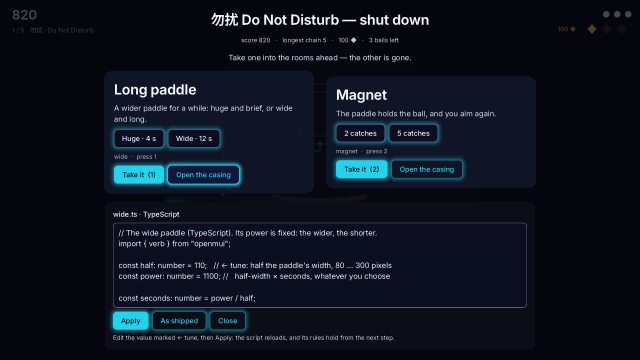
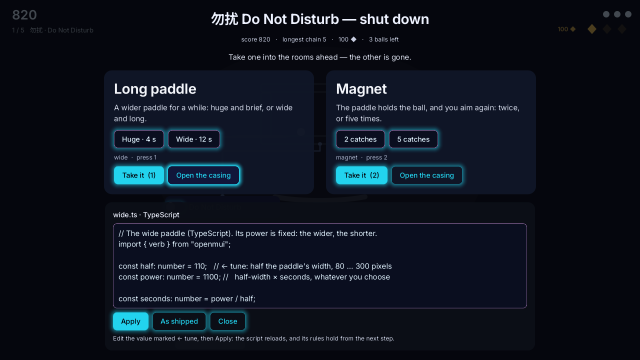
Breakout's choice between rooms reads level and plain: the two cards' presets on one line whatever their words, the preset in effect filled, each contraption's line saying what its two presets trade.

diff --git a/showcase/widget-breakout/src/app.cpp b/showcase/widget-breakout/src/app.cpp
@@ -33,6 +33,8 @@ struct Bench {
     std::array<Signal<std::string>, 2> name{signal(std::string()), signal(std::string())}, line{signal(std::string()), signal(std::string())},
         brief{signal(std::string()), signal(std::string())}, steady{signal(std::string()), signal(std::string())},
         state{signal(std::string()), signal(std::string())};
+    // Which preset each card's contraption is tuned to now (its script's marked value): -1, neither.
+    std::array<Signal<std::int32_t>, 2> chosen{signal(std::int32_t{-1}), signal(std::int32_t{-1})};
     Signal<std::string>               heading = signal(std::string()), stats = signal(std::string()), casing_title = signal(std::string()),
                                       casing_status = signal(std::string());
 
@@ -106,6 +108,7 @@ struct Bench {
         if (!c || !workshop) return;
         const std::size_t i = script_of(c->gift);
         text[i].set(Workshop::retune(text[i].peek(), c->presets[which]));
+        chosen[card].set(static_cast<std::int32_t>(which));
         state[card].set(std::format("tuning: {}", c->preset_names[which]));
         apply(i, [this, card, c, which](const std::string& s) {
             state[card].set(s.starts_with("reloaded") ? std::format("set: {}", c->preset_names[which]) : s);
@@ -142,6 +145,12 @@ struct Bench {
             brief[k].set(c ? std::string(c->preset_names[0]) : std::string());
             steady[k].set(c ? std::string(c->preset_names[1]) : std::string());
             state[k].set(c ? std::format("{}  ·  press {}", c->script, k + 1) : std::string());
+            std::int32_t now = -1;
+            if (c && workshop)
+                if (const auto v = Workshop::tuned(text[script_of(c->gift)].peek()))
+                    for (std::int32_t w = 0; w < 2; ++w)
+                        if (*v == c->presets[static_cast<std::size_t>(w)]) now = w;
+            chosen[k].set(now);
         }
         const Run& r = f->run_so_far();
         heading.set(std::format("{} {} — shut down", room(after).name, room(after).title));
@@ -157,10 +166,16 @@ Element card_view(const std::shared_ptr<Bench>& b, std::size_t k) {
     return column({.id = id, .width = Dim(420.0f), .padding = 20, .gap = 10.0f, .background = Color::hex(0x101626, 0.96f), .radius = 16.0f},
                   // Its own dark ground whatever the room's skin (a light skin's dark text vanished on it): its words light.
                   {text({.text = b->name[k], .style = "title", .color = Fill(Color::hex(0xf4f6fb))}),
-                   text({.text = b->line[k], .style = "body", .color = Fill(Color::hex(0xd5dbea))}),
+                   // Two lines' room: the presets of both cards on one line whatever their words.
+                   box({.min_height = Dim(46.0f)}, {text({.text = b->line[k], .style = "body", .color = Fill(Color::hex(0xd5dbea))})}),
                    row({.id = id + ".presets", .gap = 8.0f},
-                       {button({.id = id + ".brief", .text = b->brief[k], .variant = ButtonVariant::secondary, .on_activated = [b, k] { b->preset(k, 0); }}),
-                        button({.id = id + ".steady", .text = b->steady[k], .variant = ButtonVariant::secondary, .on_activated = [b, k] { b->preset(k, 1); }})}),
+                       // The preset in effect, filled; the other, to choose.
+                       {button({.id = id + ".brief", .text = b->brief[k],
+                                .variant = computed([b, k] { return b->chosen[k].get() == 0 ? ButtonVariant::primary : ButtonVariant::secondary; }),
+                                .on_activated = [b, k] { b->preset(k, 0); }}),
+                        button({.id = id + ".steady", .text = b->steady[k],
+                                .variant = computed([b, k] { return b->chosen[k].get() == 1 ? ButtonVariant::primary : ButtonVariant::secondary; }),
+                                .on_activated = [b, k] { b->preset(k, 1); }})}),
                    text({.id = id + ".state", .text = b->state[k], .style = "caption", .color = Fill(Color::hex(0xaab4cc))}),
                    row({.id = id + ".tools", .gap = 8.0f},
                        {button({.id = id + ".take", .text = std::format("Take it  ({})", k + 1), .variant = ButtonVariant::primary, .on_activated = [b, k] { b->take(k); }}),

diff --git a/showcase/widget-breakout/src/rooms.cpp b/showcase/widget-breakout/src/rooms.cpp
@@ -215,8 +215,8 @@ RoomDef sync_room() {
 
 constexpr std::array<Contraption, 5> all_contraptions{{
     {Gift::wide, "wide", "Long paddle", "A wider paddle for a while: huge and brief, or wide and long.", {260, 95}, {"Huge · 4 s", "Wide · 12 s"}},
-    {Gift::magnet, "magnet", "Magnet", "The paddle holds the ball, and you aim again.", {2, 5}, {"2 catches", "5 catches"}},
-    {Gift::multi, "multi", "Splitter", "Every ball in flight splits.", {1, 4}, {"Into two", "Into five"}},
+    {Gift::magnet, "magnet", "Magnet", "The paddle holds the ball, and you aim again: twice, or five times.", {2, 5}, {"2 catches", "5 catches"}},
+    {Gift::multi, "multi", "Splitter", "Every ball in flight splits: into two you can follow, or five to keep up with.", {1, 4}, {"Into two", "Into five"}},
     {Gift::pierce, "pierce", "Drill", "The ball goes through bricks: short and often, or long and rare.", {2, 10}, {"2 s · often", "10 s · rare"}},
     {Gift::slow, "slow", "Molasses", "Time runs slow: very slow and short, or a little slow for long.", {25, 75}, {"25 % · 5 s", "75 % · 16 s"}},
 }};

diff --git a/showcase/widget-breakout/tests/breakout_test.cpp b/showcase/widget-breakout/tests/breakout_test.cpp
@@ -679,7 +679,7 @@ int main(int argc, char** argv) {
         g.h.advance(seconds(0.25));
         check(g.component().props.room == 1 && g.component().run_so_far().kit.empty() && g.state().score == 0 && g.state().lives == 3, "afresh");
         std::println("    choice {:016x}", choice);
-        check_eq(choice, std::uint64_t{0xd15bb2d90a9d3c4f});  // GCC (LLVM: CI)
+        check_eq(choice, std::uint64_t{0xaaf323ed1986dfdc});  // GCC (LLVM: CI)
     });
 
     s.test("between rooms, a casing open: its script — TypeScript, Lua, Python — edited and reloaded in place under 200 ms, a preset retuning it, a bad one keeping the rules; the rules reach the next room", [] {
